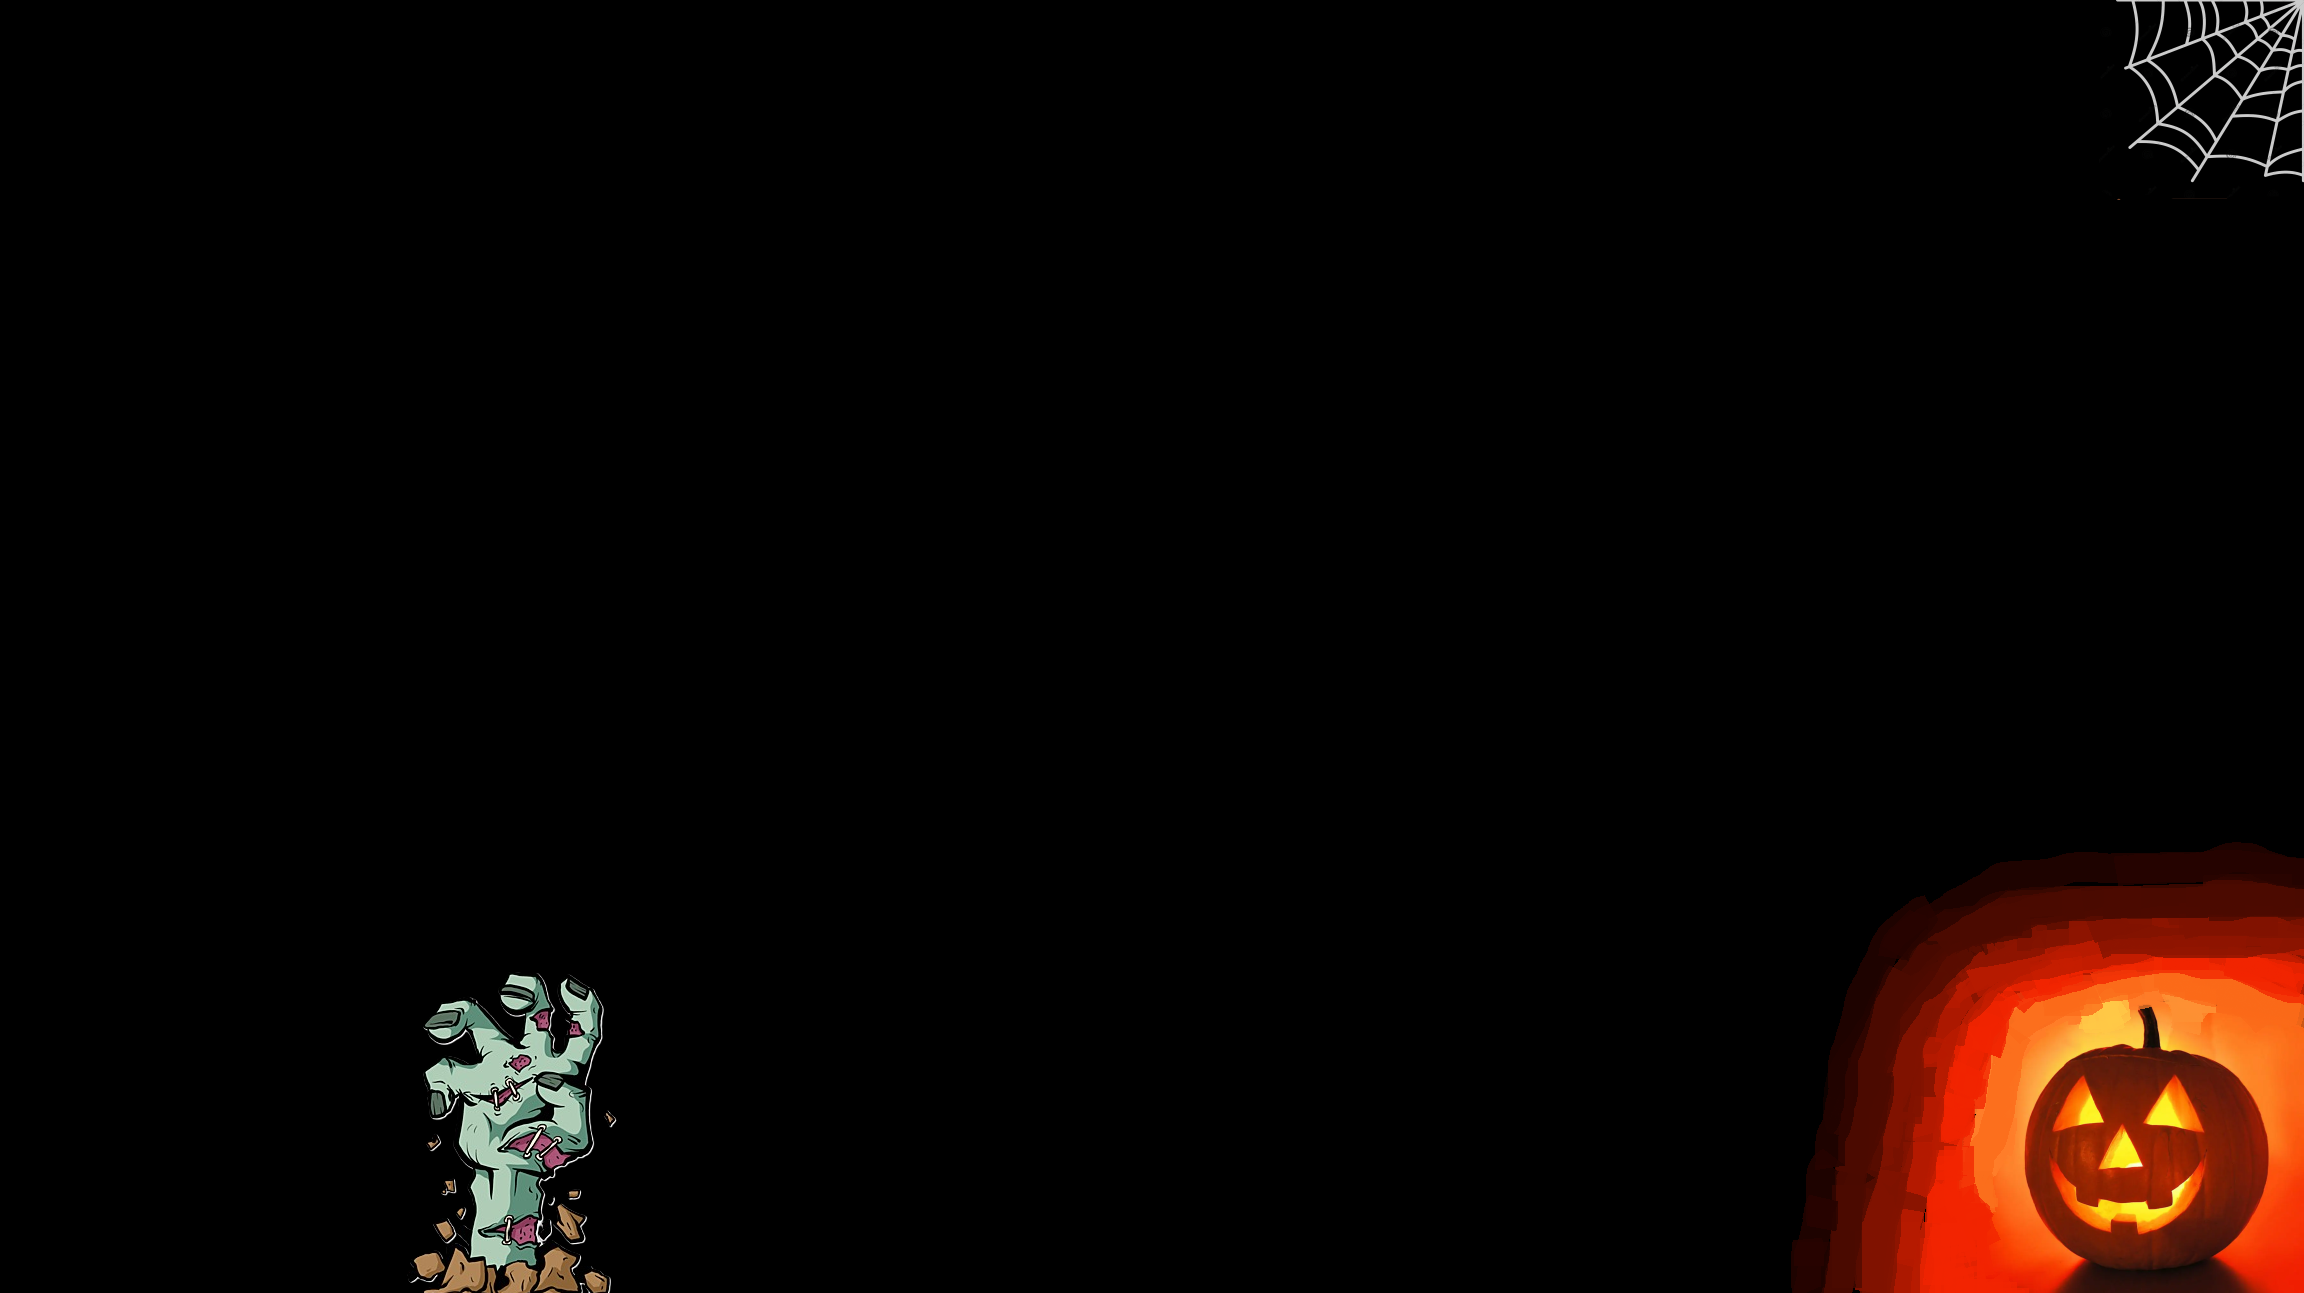
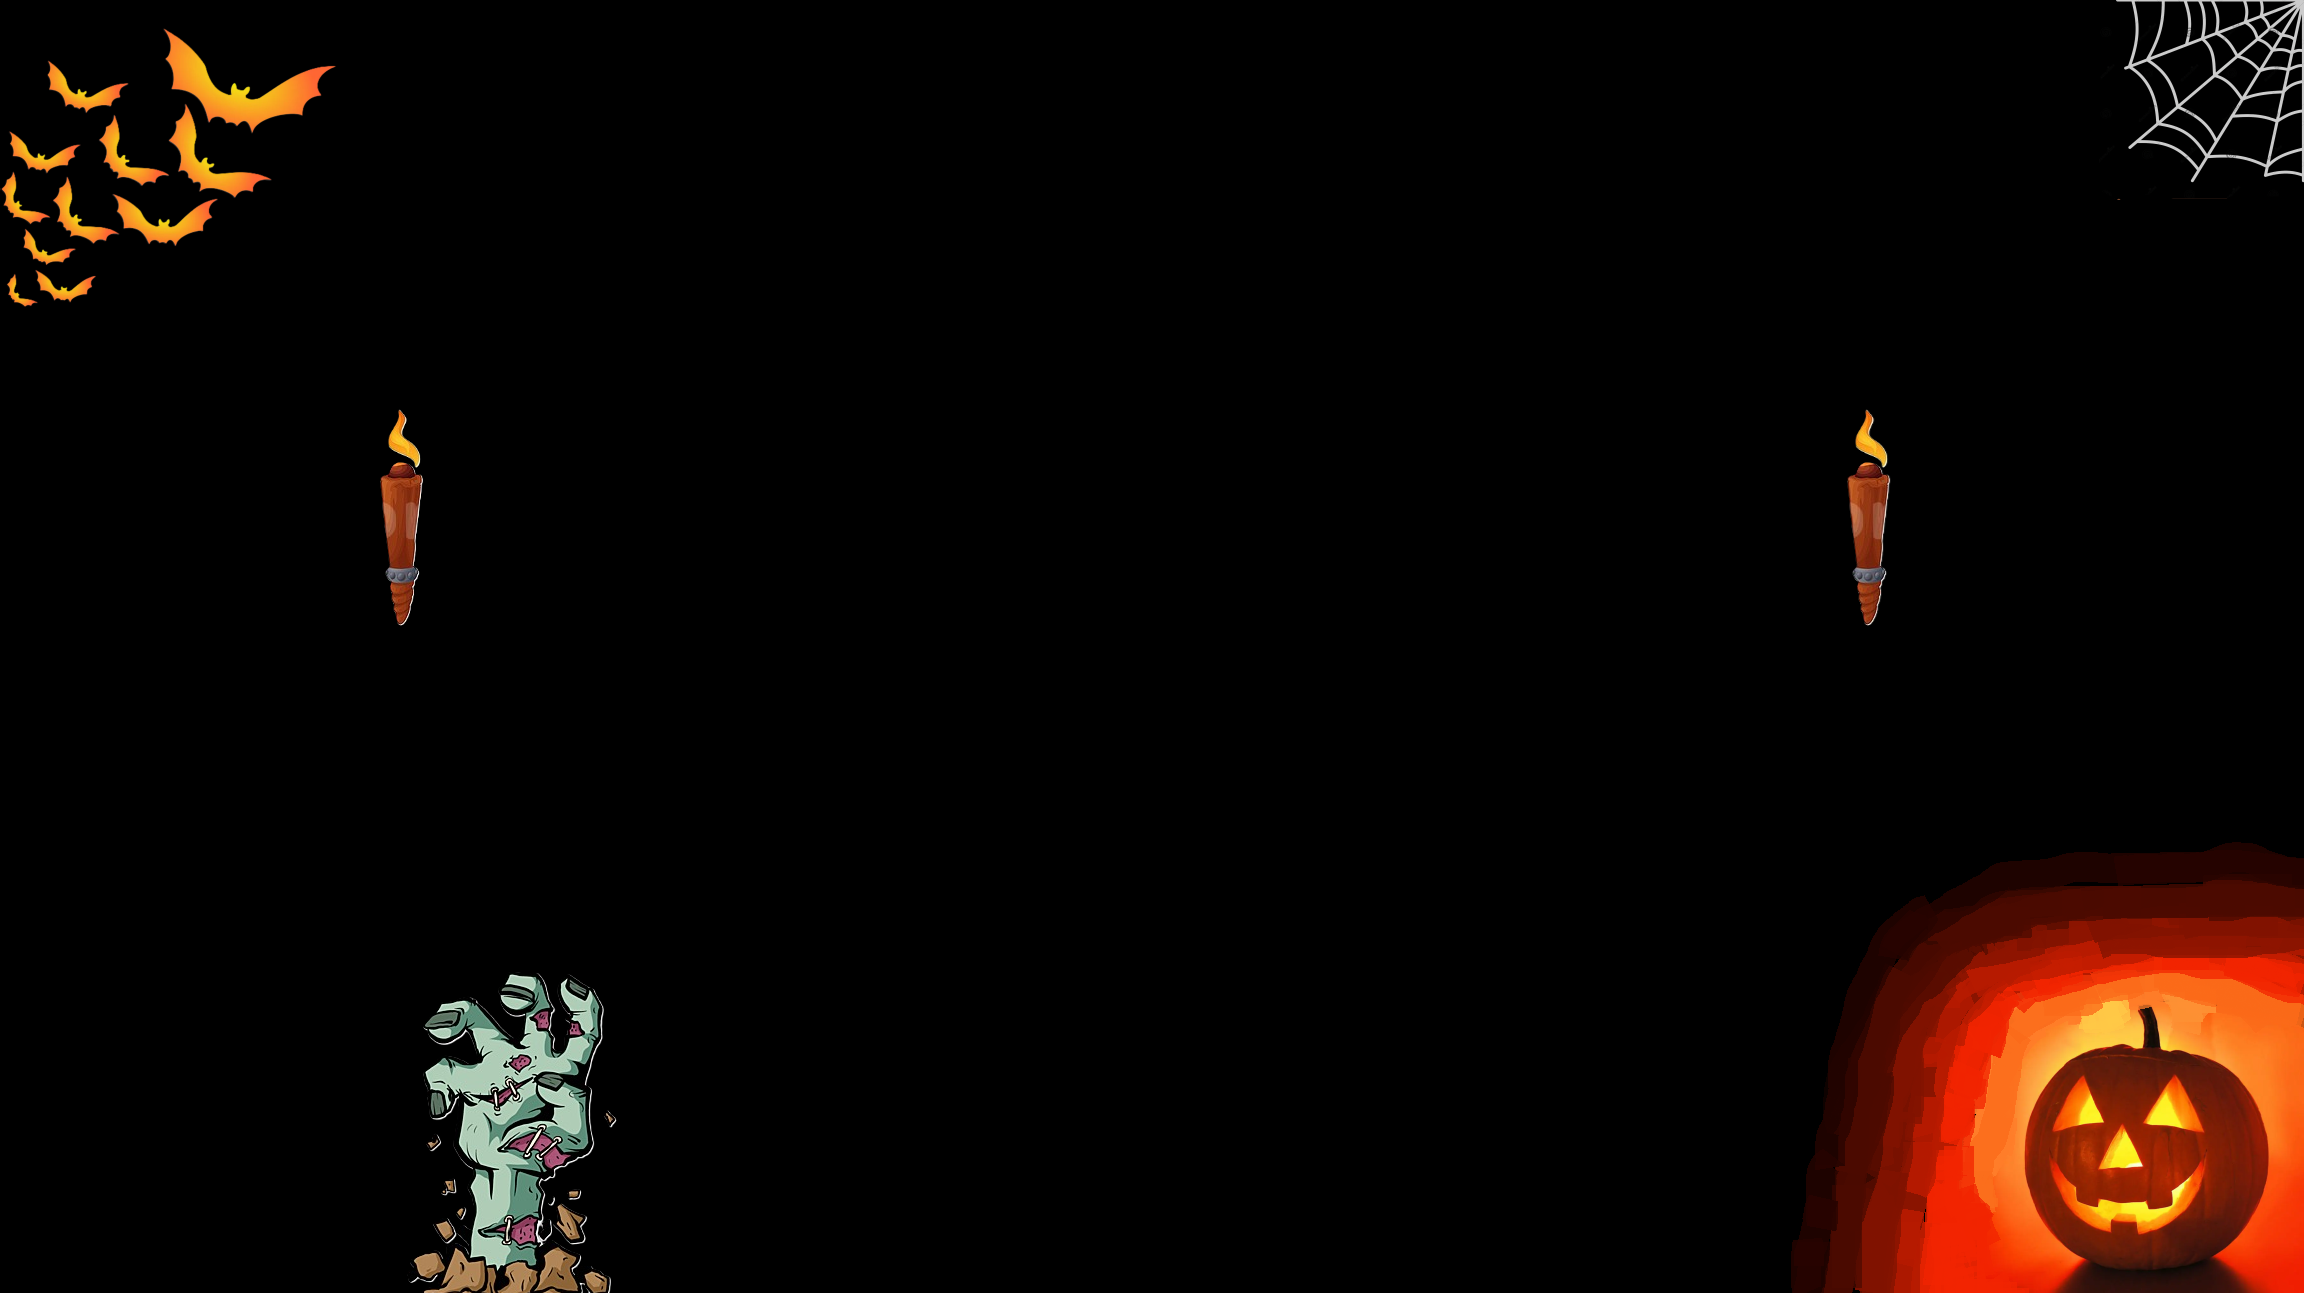
added image behind buttons and updated background

Changed region(s): [[0.0, 0.0309, 0.1562, 0.2475], [0.7812, 0.3094, 0.8438, 0.464], [0.1562, 0.3094, 0.1875, 0.495]]

diff --git a/index.html b/index.html
@@ -32,6 +32,10 @@
 
         .options {
             text-align: center; /* Center the button containers */
+            padding: 75px 100px;
+            background-image: url(ButtonImage.png);
+            background-repeat: no-repeat;
+            background-size: cover;
         }
 
         .option-container {
@@ -46,7 +50,7 @@
             background-color: #3498db;
             color: #fff;
             border: none;
-			width: 300px;
+            width: 300px;
         }
     </style>
 </head>
